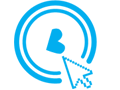
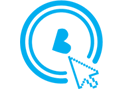
[style]分流页及页面logo 连接添加

diff --git a/perfect-web/src/main/webapp/public/css/best_css/shun_page.css b/perfect-web/src/main/webapp/public/css/best_css/shun_page.css
@@ -55,7 +55,7 @@ body {
     text-align: center;
     position: absolute;
     top: 22px;
-    right: 60px;
+    right: 45px;
     z-index: 99;
 }
 
@@ -166,5 +166,19 @@ body {
 
 .time span {
     color: #f7b003;
+
+}
+.tex2_mid p b{
+    font-size:14px;
+}
+.servicesBox .disabled .txt2 p
+{
+    text-align: center;
+}
+.servicesBox .disabled{
+   cursor: not-allowed;
+}
+.servicesBox .disabled a{
+    cursor: not-allowed;
 
 }
